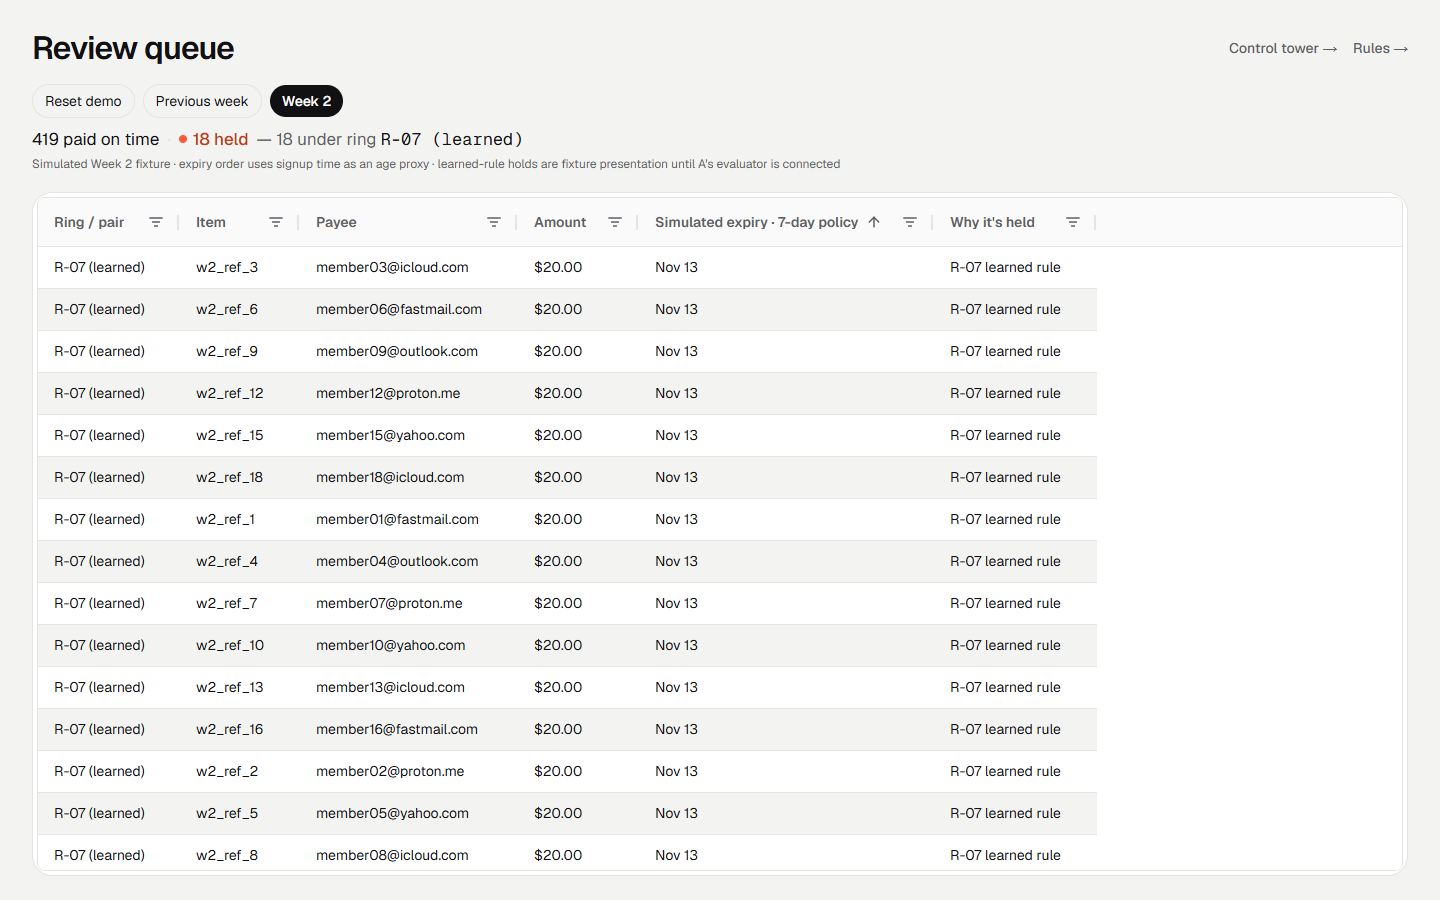
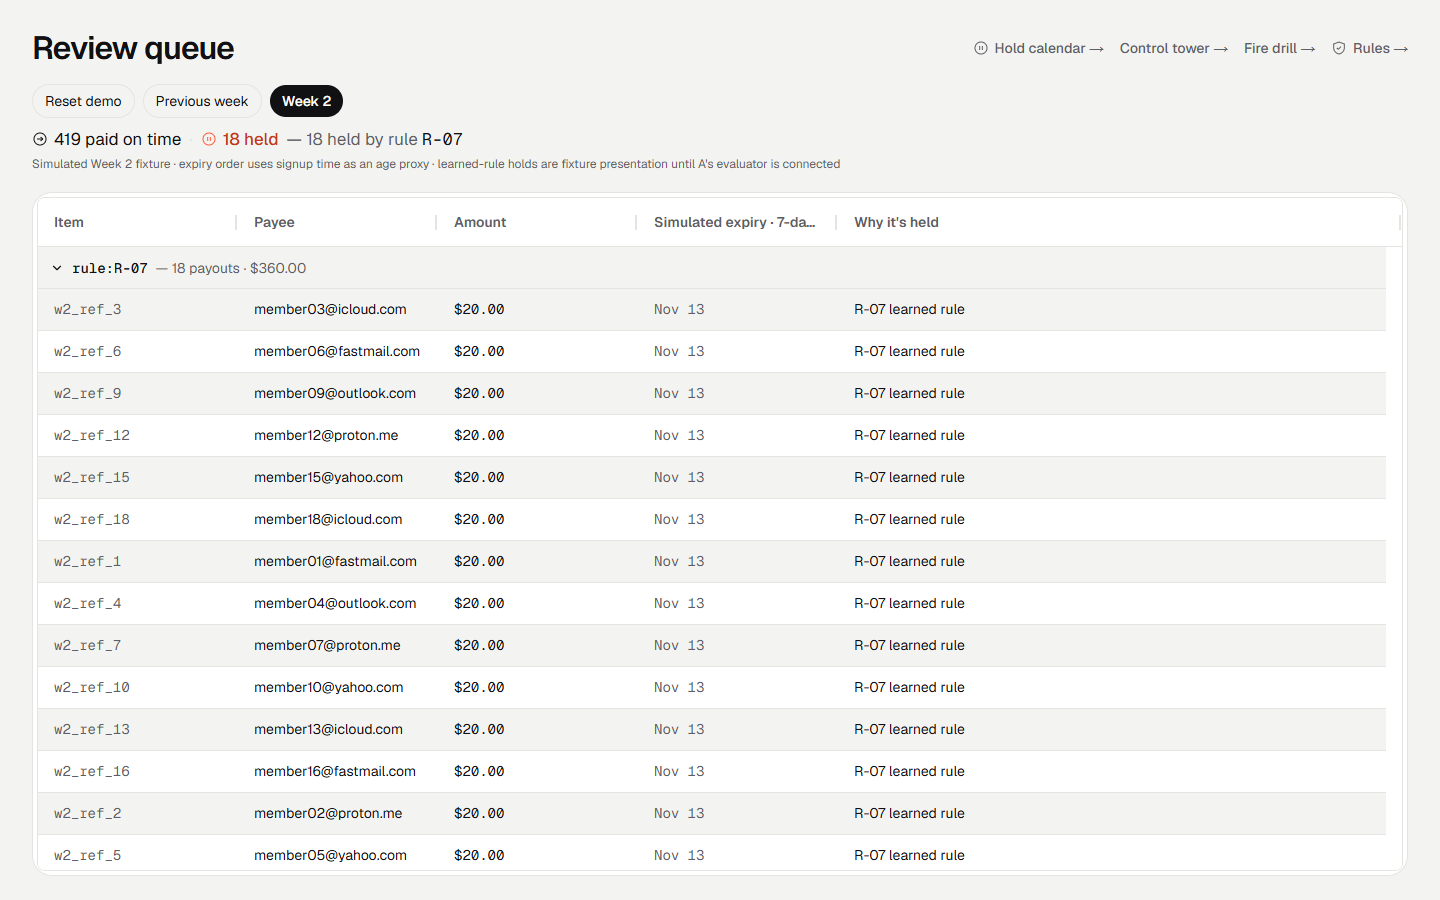
feat(console): hand-build true collapsible row groups, no AG Grid Enterprise
The review queue faked grouping via sort order and a label column; AG Grid's real row-grouping is
Enterprise-only, a separate license from the AG Studio trial already in use, so this builds it
directly on Community's full-width-row feature instead: one clickable, full-width header row per
hold group (count + total), collapsing or expanding its members, no new dependency or watermark.
AG Grid stays the actual renderer, keeping the sponsor-prize eligibility design.md calls out.

Also regenerated the two review-queue screenshots embedded in the README, which had gone stale
enough to still show the pre-fix "ring R-07" mislabeling this session just removed from the app
itself - left uncorrected, they'd have contradicted the identity work in the README judges read.

Caught along the way: next build's TypeScript pass (run directly, not through the rtk wrapper,
which was silently reporting a clean build while the real `tsc` failed) flagged two real type
errors from the union row type - fixed with valueGetter-based columns instead of field, and a
non-const autoSizeStrategy. Root tsc/vitest were independently re-verified unaffected.

diff --git a/apps/console/app/review/data-grid.tsx b/apps/console/app/review/data-grid.tsx
@@ -1,31 +1,28 @@
 "use client";
 
-// The review queue's grid. AG Grid Community has no row-grouping (that's Enterprise), so "grouped
-// by hold group" here means: sorted by group, a Geist Mono "Hold group" column carrying the label
-// (a ring, a pair, or the payouts one rule held), and row shading that alternates per group so
-// same-group rows read as one block at a glance. True collapsible AG Grid row groups are a possible
-// later polish item (see design.md's open questions), not required for this task's "shows 25 held,
-// 23 under ring R-12."
+// The review queue's grid. AG Grid Community has no built-in row-grouping (that's Enterprise), so
+// grouping is hand-built on top of Community's full-width-row feature: one synthetic, clickable
+// header row per hold group, followed by its member rows unless collapsed. Keeping AG Grid itself
+// as the renderer (rather than a plain HTML table) keeps this eligible for its sponsor prize
+// (design.md).
 
-import { useMemo } from "react";
+import { useCallback, useMemo, useState } from "react";
 import {
   CellStyleModule,
   ClientSideRowModelModule,
   ColumnAutoSizeModule,
   enableDevValidations,
-  QuickFilterModule,
-  TextFilterModule,
   themeQuartz,
   type ColDef,
   type ValueFormatterParams,
 } from "ag-grid-community";
-import { AgGridProvider, AgGridReact } from "ag-grid-react";
+import { AgGridProvider, AgGridReact, type CustomCellRendererProps } from "ag-grid-react";
 
 if (process.env.NODE_ENV !== "production") {
   enableDevValidations();
 }
 
-const modules = [ClientSideRowModelModule, TextFilterModule, QuickFilterModule, ColumnAutoSizeModule, CellStyleModule];
+const modules = [ClientSideRowModelModule, ColumnAutoSizeModule, CellStyleModule];
 
 // Ringfence tokens (design.md): ink for structure, coral only for the Held status itself.
 const theme = themeQuartz.withParams({
@@ -51,40 +48,130 @@ export interface ReviewRow {
   holdExpiresAt: string;
 }
 
-const formatMoney = ({ value }: ValueFormatterParams<ReviewRow>) =>
-  typeof value === "number" ? value.toLocaleString("en-US", { style: "currency", currency: "USD" }) : "";
-const formatExpiry = ({ value }: ValueFormatterParams<ReviewRow>) =>
+/** A group's own collapsible header row — rendered full-width, never a real payout. */
+interface GroupHeaderRow {
+  isGroupHeader: true;
+  group: string;
+  kind: ReviewRow["kind"];
+  count: number;
+  totalAmount: number;
+  collapsed: boolean;
+}
+
+type GridRow = ReviewRow | GroupHeaderRow;
+
+const formatMoney = (value: number) => value.toLocaleString("en-US", { style: "currency", currency: "USD" });
+const amountFormatter = ({ value }: ValueFormatterParams<GridRow>) => (typeof value === "number" ? formatMoney(value) : "");
+const formatExpiry = ({ value }: ValueFormatterParams<GridRow>) =>
   typeof value === "string"
     ? new Date(value).toLocaleDateString("en-US", { month: "short", day: "numeric", timeZone: "UTC" })
     : "";
 
-const defaultColDef: ColDef<ReviewRow> = { filter: true, resizable: true };
-const autoSizeStrategy = { type: "fitCellContents" } as const;
+const defaultColDef: ColDef<GridRow> = { resizable: true, sortable: false };
+// "reasons" is excluded and left to its own flex: fitting it to content, like every other column,
+// would size it to its longest reason list rather than filling the remaining row. AG Grid's own
+// dev-only validator (enableDevValidations, above) still flags the flex/fitCellContents pairing
+// here (AG Grid #318) even though colIds scopes the conflict away — a known false positive, never
+// shown in a production build, so left alone rather than hand-widths.
+const autoSizeStrategy = { type: "fitCellContents" as const, colIds: ["senderItemId", "receiver", "amount", "holdExpiresAt"] };
 
-function groupCellClass({ data }: { data?: ReviewRow }) {
-  return data?.kind === "pair" ? "font-mono text-rf-slate" : "font-mono font-medium";
+/** A plain caret, not one of the six brand-guide icons (icons.tsx) — just a UI affordance. */
+function CaretIcon({ collapsed }: { collapsed: boolean }) {
+  return (
+    <svg width={14} height={14} viewBox="0 0 24 24" fill="none" stroke="currentColor" strokeWidth={2} strokeLinecap="round" strokeLinejoin="round" aria-hidden="true" className={collapsed ? "-rotate-90" : ""}>
+      <path d="m6 9 6 6 6-6" />
+    </svg>
+  );
+}
+
+function GroupHeaderCell({ data, context }: CustomCellRendererProps<GridRow>) {
+  const row = data as GroupHeaderRow;
+  const { onToggleGroup } = context as { onToggleGroup: (group: string) => void };
+  return (
+    <button
+      type="button"
+      onClick={() => onToggleGroup(row.group)}
+      aria-expanded={!row.collapsed}
+      className="flex h-full w-full items-center gap-2 bg-rf-mist px-3 text-left text-sm text-rf-ink hover:bg-rf-hairline/40"
+    >
+      <CaretIcon collapsed={row.collapsed} />
+      <code className={`font-mono ${row.kind === "pair" ? "text-rf-slate" : "font-medium"}`}>{row.group}</code>
+      <span className="text-rf-slate">
+        — {row.count} {row.count === 1 ? "payout" : "payouts"} · {formatMoney(row.totalAmount)}
+      </span>
+    </button>
+  );
+}
+
+function isGroupHeader(data: GridRow | undefined): data is GroupHeaderRow {
+  return Boolean(data && "isGroupHeader" in data);
 }
 
 export function ReviewGrid({ rows }: { rows: ReviewRow[] }) {
-  const columns = useMemo<ColDef<ReviewRow>[]>(
+  // Grouped in the order each group's rows first appear, not re-sorted: the caller already orders
+  // rows by soonest-expiring first, and a group takes its position from its own earliest row.
+  const groups = useMemo(() => {
+    const order: string[] = [];
+    const byGroup = new Map<string, ReviewRow[]>();
+    for (const row of rows) {
+      const members = byGroup.get(row.group);
+      if (members) members.push(row);
+      else {
+        order.push(row.group);
+        byGroup.set(row.group, [row]);
+      }
+    }
+    return order.map((group) => ({ group, members: byGroup.get(group)! }));
+  }, [rows]);
+
+  const [collapsed, setCollapsed] = useState<ReadonlySet<string>>(new Set());
+  const onToggleGroup = useCallback((group: string) => {
+    setCollapsed((prev) => {
+      const next = new Set(prev);
+      if (next.has(group)) next.delete(group);
+      else next.add(group);
+      return next;
+    });
+  }, []);
+  const context = useMemo(() => ({ onToggleGroup }), [onToggleGroup]);
+
+  const gridRows = useMemo<GridRow[]>(() => {
+    const out: GridRow[] = [];
+    for (const { group, members } of groups) {
+      const isCollapsed = collapsed.has(group);
+      out.push({
+        isGroupHeader: true,
+        group,
+        kind: members[0]!.kind,
+        count: members.length,
+        totalAmount: members.reduce((sum, r) => sum + r.amount, 0),
+        collapsed: isCollapsed,
+      });
+      if (!isCollapsed) out.push(...members);
+    }
+    return out;
+  }, [groups, collapsed]);
+
+  // valueGetter, not field: GridRow also includes GroupHeaderRow, which carries none of these
+  // fields — full-width rows never call these anyway (isFullWidthRow), but this keeps every
+  // column honestly typed against the union instead of casting ReviewRow-only defs onto it.
+  const columns = useMemo<ColDef<GridRow>[]>(
     () => [
+      { headerName: "Item", cellClass: "font-mono text-rf-slate", valueGetter: ({ data }) => (isGroupHeader(data) ? undefined : data?.senderItemId) },
+      { headerName: "Payee", valueGetter: ({ data }) => (isGroupHeader(data) ? undefined : data?.receiver) },
       {
-        field: "group",
-        headerName: "Hold group",
-        cellClass: groupCellClass,
-        comparator: (a: string, b: string) => a.localeCompare(b),
+        headerName: "Amount",
+        valueGetter: ({ data }) => (isGroupHeader(data) ? undefined : data?.amount),
+        valueFormatter: amountFormatter,
+        cellClass: "font-mono",
       },
-      { field: "senderItemId", headerName: "Item", cellClass: "font-mono text-rf-slate" },
-      { field: "receiver", headerName: "Payee" },
-      { field: "amount", headerName: "Amount", valueFormatter: formatMoney, cellClass: "font-mono" },
       {
-        field: "holdExpiresAt",
         headerName: "Simulated expiry · 7-day policy",
+        valueGetter: ({ data }) => (isGroupHeader(data) ? undefined : data?.holdExpiresAt),
         valueFormatter: formatExpiry,
-        comparator: (a: string, b: string) => Date.parse(a) - Date.parse(b),
         cellClass: "font-mono text-rf-slate",
       },
-      { field: "reasons", headerName: "Why it's held", flex: 2 },
+      { headerName: "Why it's held", flex: 2, valueGetter: ({ data }) => (isGroupHeader(data) ? undefined : data?.reasons) },
     ],
     [],
   );
@@ -92,13 +179,16 @@ export function ReviewGrid({ rows }: { rows: ReviewRow[] }) {
   return (
     <div className="min-h-0 flex-1 p-1">
       <AgGridProvider modules={modules}>
-        <AgGridReact<ReviewRow>
+        <AgGridReact<GridRow>
           theme={theme}
-          rowData={rows}
+          context={context}
+          rowData={gridRows}
           columnDefs={columns}
           defaultColDef={defaultColDef}
           autoSizeStrategy={autoSizeStrategy}
-          getRowId={({ data }) => data.senderItemId}
+          isFullWidthRow={({ rowNode }) => isGroupHeader(rowNode.data)}
+          fullWidthCellRenderer={GroupHeaderCell}
+          getRowId={({ data }) => (isGroupHeader(data) ? `group:${data.group}` : `item:${data.senderItemId}`)}
           enableCellTextSelection
           overlayNoRowsTemplate='<div class="rf-grid-empty"><strong>Nothing needs review.</strong><span>New holds will appear here after a run.</span></div>'
         />

diff --git a/design.md b/design.md
@@ -164,4 +164,4 @@ Short and purposeful: 150–200ms ease-out for chips, cards and dialogs. A held 
 - ~~**Dark mode isn't in the brand guide.**~~ — done, see Colour above.
 - ~~**Sponsor-tool reskinning**~~ — done. AG Studio, AG Grid and Bryntum are reskinned, tokens confirmed in `apps/console/app/globals.css`, `review/data-grid.tsx` and `control-tower/control-tower.tsx`. APIMatic has no UI in this build to reskin either way — see Trademark and partner rules above for what it contributed instead (`packages/sdk`).
 - ~~**Task numbering is inconsistent across the repo's own docs**~~ — resolved 2026-11-05: `final-prd.docx` (now in the repo working tree) organizes work by owner and by date gate, not by a numbered task list at all, so the "tasks 4/9/10" numbering this file and `apps/console/.env.example` used was never PRD-backed. Dropped the numbers everywhere; sponsor tools are now referenced by name only.
-- **True collapsible AG Grid row groups** (`apps/console/app/review/data-grid.tsx`) are a possible later polish item — AG Grid Community has no row-grouping (that's Enterprise), so the review queue fakes it today via sort order, a "Ring / pair" column and odd/even row striping. Not required for "shows 25 held, 23 under ring R-12."
+- ~~**True collapsible AG Grid row groups**~~ — done, without an AG Grid Enterprise license: `review/data-grid.tsx` hand-builds one clickable, full-width header row per hold group (count and total) on top of AG Grid Community's own full-width-row feature, collapsing or expanding its member rows — AG Grid stays the renderer (keeps the sponsor-prize eligibility above), Community stays the only AG Grid package in use.
